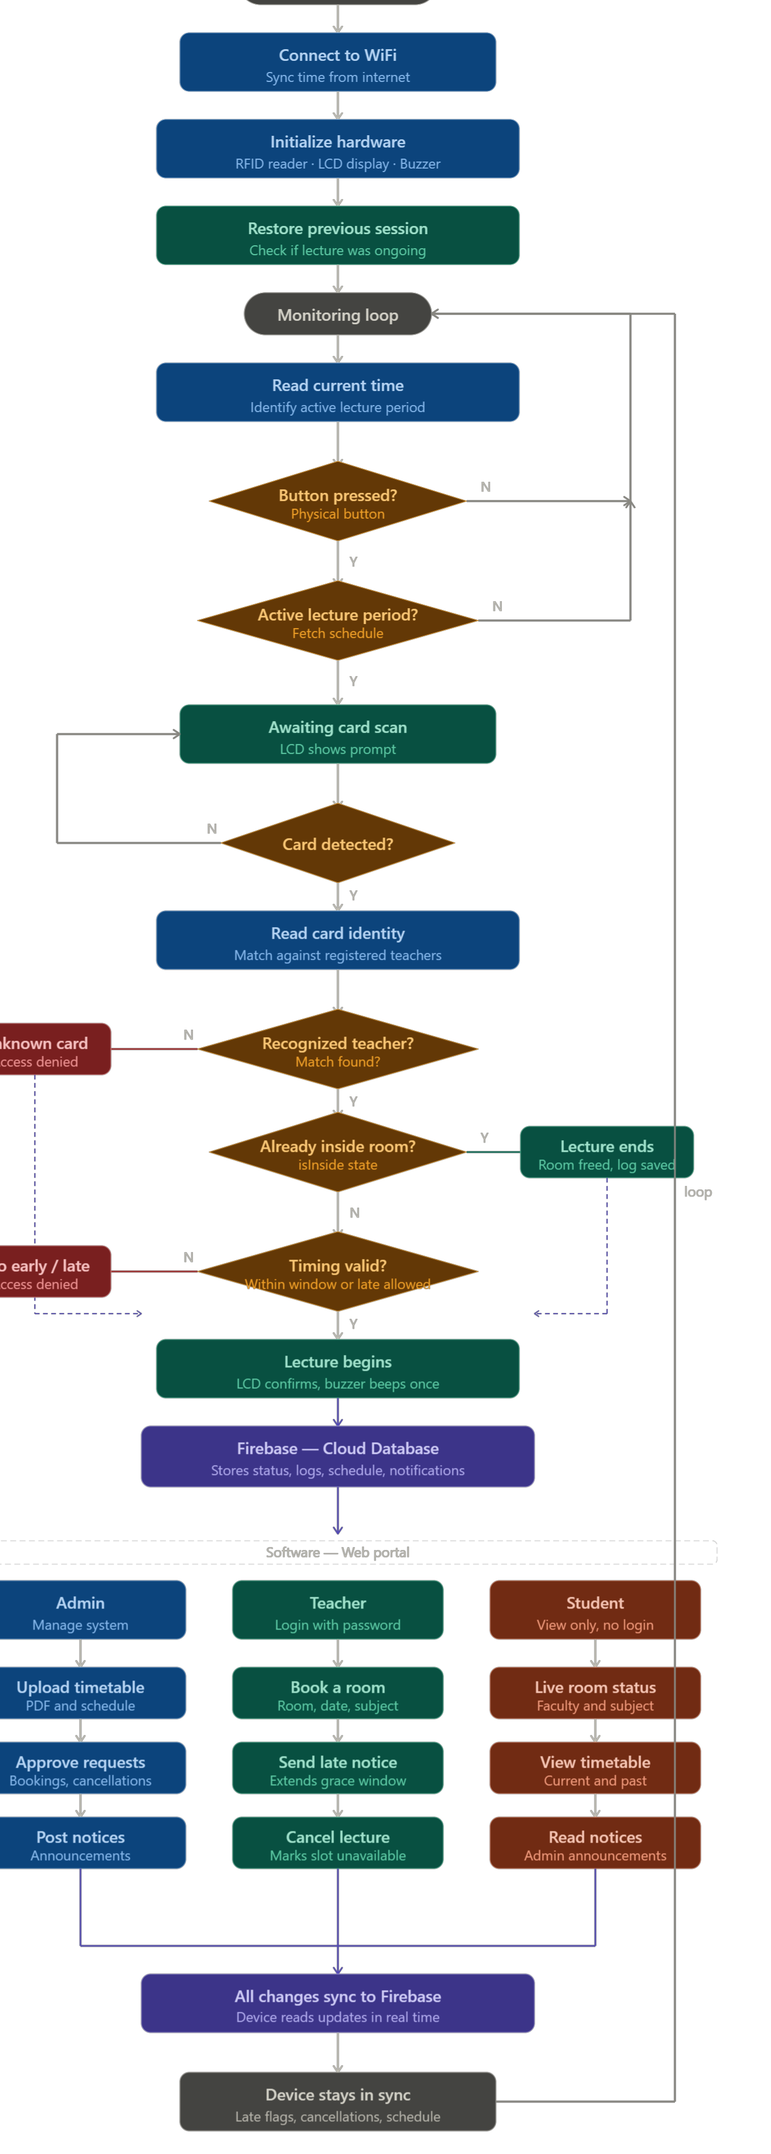
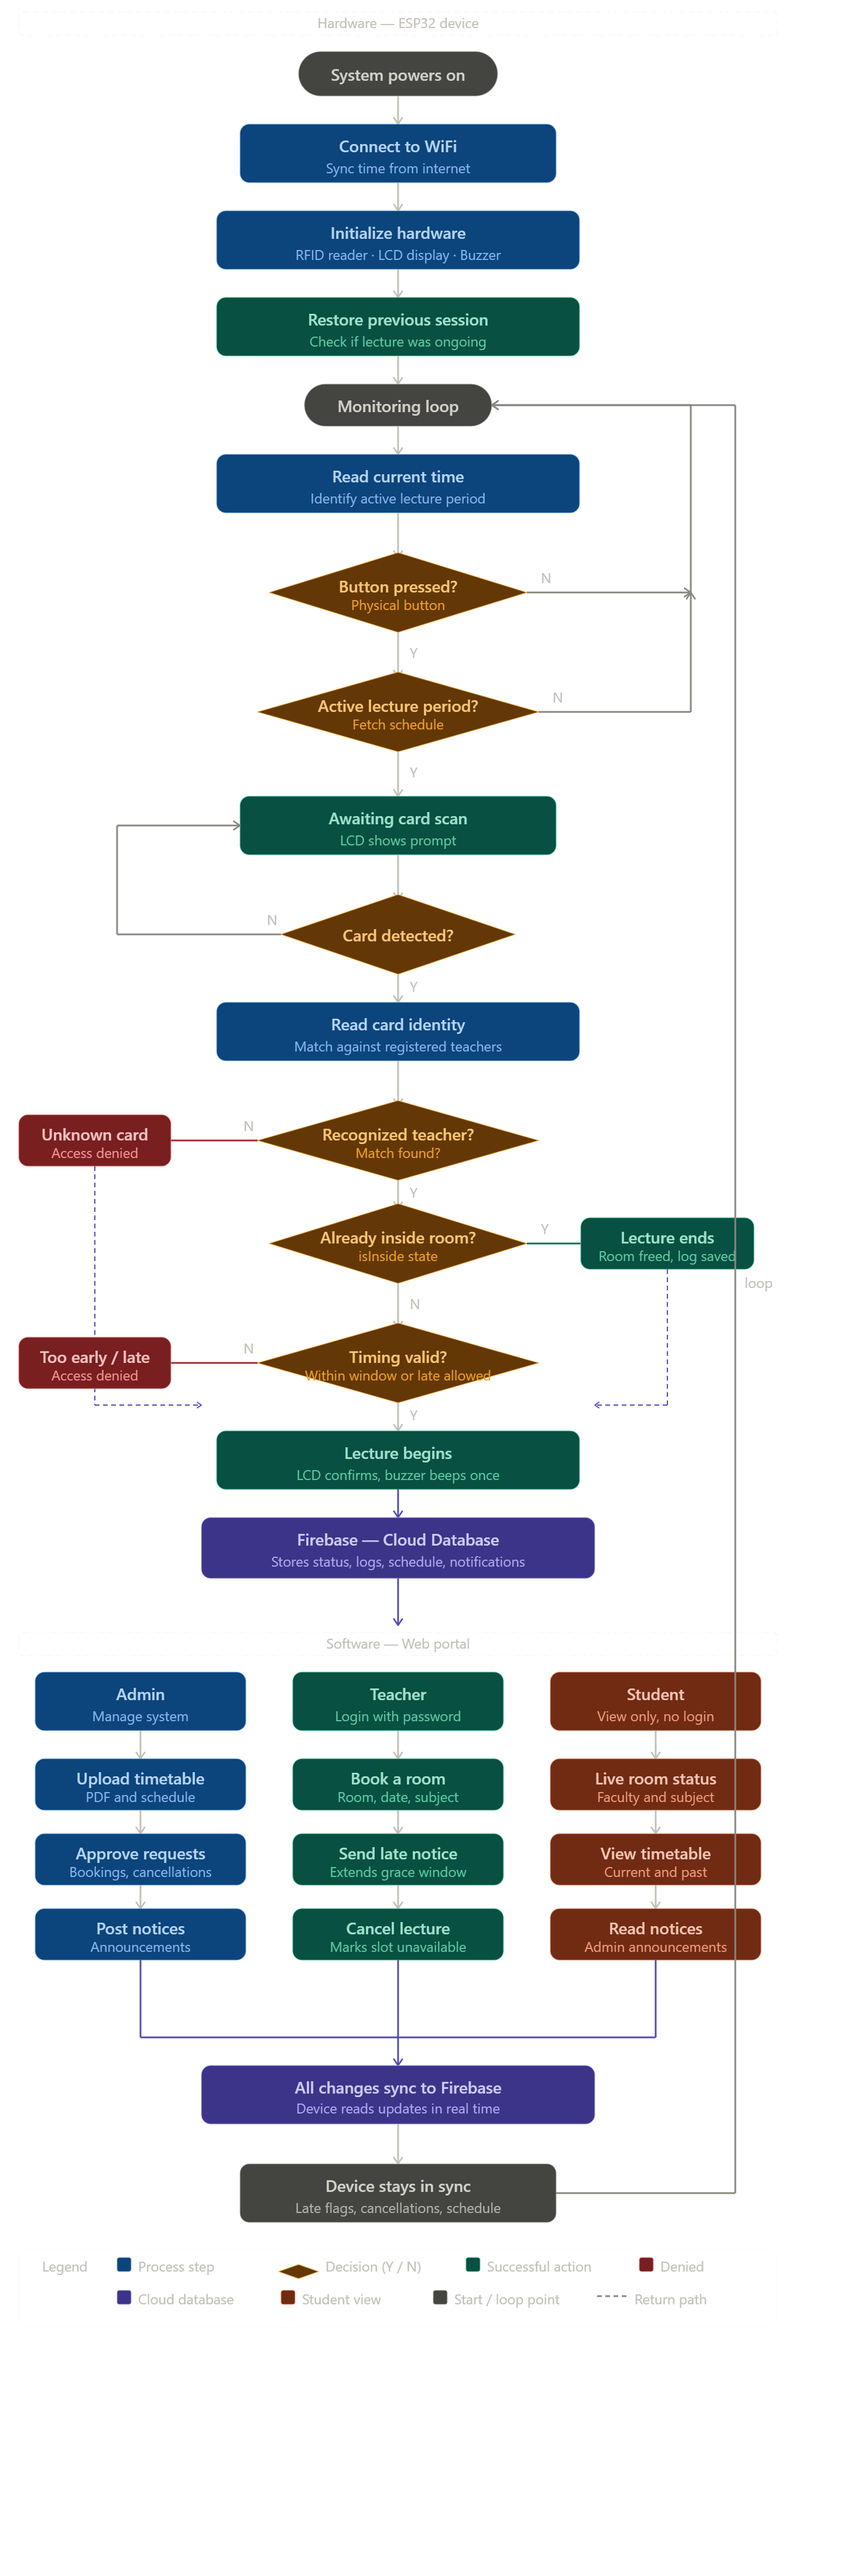
made some changes

diff --git a/admin.html b/admin.html
@@ -571,35 +571,113 @@ function renderLogs(snap,table) {
 }
 
 /* ═══════════════════════════════════════════════════
-   LIVE CLASSROOMS — with cancel/live sync
+   LIVE CLASSROOMS — status logic matches index.html
+   (checks timetable to distinguish Waiting vs Free)
 ════════════════════════════════════════════════════ */
+
+// ── Same slot-time helpers as index.html ──────────
+function getAdminCurrentSlot() {
+  const now=new Date(), h=now.getHours(), m=now.getMinutes(), mins=h*60+m;
+  if (mins>=510&&mins<570) return "s1";
+  if (mins>=570&&mins<630) return "s2";
+  if (mins>=640&&mins<700) return "s3";
+  if (mins>=700&&mins<760) return "s4";
+  if (mins>=760&&mins<800) return "lunch";
+  if (mins>=800&&mins<860) return "s5";
+  if (mins>=860&&mins<920) return "s6";
+  if (mins>=920&&mins<980) return "s7";
+  if (mins>=980&&mins<1040) return "s8";
+  return "none";
+}
+function getAdminIsRealSlot(slot) { return slot!=="lunch"&&slot!=="none"; }
+
 function loadDashboardStats() {
   get(ref(database,"classrooms")).then(classSnap => {
     if (!classSnap.exists()) return;
     const rooms=Object.keys(classSnap.val());
-    const statusMap={}, liveCardsDiv=document.getElementById("liveRoomCards");
+    const statusMap={}, subjectMap={}, facultyMap={};
+    const liveCardsDiv=document.getElementById("liveRoomCards");
 
     rooms.forEach(room => {
-      onValue(ref(database,"classrooms/"+room+"/live"), snap => {
-        statusMap[room]=snap.exists()?(snap.val().status||"Free"):"Free";
+      // Listen real-time on live node; recompute status with timetable context
+      onValue(ref(database,"classrooms/"+room+"/live"), async liveSnap => {
+        const slot      = getAdminCurrentSlot();
+        const isReal    = getAdminIsRealSlot(slot);
+        const todayDate = new Date().toISOString().split("T")[0];
+        const dayName   = new Date().toLocaleString("en-US",{weekday:"long"});
+
+        let status="Free", subject="–", faculty="–";
+
+        if (!isReal) {
+          status = "Break";
+        } else {
+          // Fetch timetable + cancel info for current slot
+          const [ttSnap, specSnap, cancelSnap] = await Promise.all([
+            get(ref(database,`classrooms/${room}/timetable/${dayName}/${slot}`)),
+            get(ref(database,`classrooms/${room}/specialBookings/${todayDate}/${slot}`)),
+            get(ref(database,`cancelled_lectures/${todayDate}/${room}/${slot}`))
+          ]);
+          const isCancelled = cancelSnap.exists();
+          const lecture = specSnap.exists() ? specSnap.val() : (ttSnap.exists() ? ttSnap.val() : null);
+
+          if (isCancelled) {
+            status = "Free";
+          } else if (liveSnap.exists()) {
+            const live = liveSnap.val();
+            let ts = live.timestamp||0;
+            if (ts < 10000000000) ts *= 1000;
+            const isValid = live.status==="Ongoing" && live.slot &&
+              live.slot.toLowerCase()===slot.toLowerCase() && (Date.now()-ts)<70*60*1000;
+            if (isValid) {
+              status  = "Ongoing";
+              subject = live.subject||"–";
+              faculty = live.faculty||"–";
+            } else {
+              status  = lecture ? "Waiting" : "Free";
+              subject = lecture ? (lecture.subject||"–") : "–";
+              faculty = lecture ? (lecture.faculty||"–") : "–";
+            }
+          } else if (lecture) {
+            status  = "Waiting";
+            subject = lecture.subject||"–";
+            faculty = lecture.faculty||"–";
+          }
+        }
+
+        statusMap[room]=status; subjectMap[room]=subject; facultyMap[room]=faculty;
+
+        // ── Recount stats ─────────────────────────────
         let total=rooms.length, free=0, ongoing=0, waiting=0;
         Object.values(statusMap).forEach(st => {
-          if (st==="Ongoing") ongoing++; else if (st==="Waiting") waiting++; else free++;
+          if (st==="Ongoing") ongoing++;
+          else if (st==="Waiting") waiting++;
+          else free++; // Free + Break both count as "free" for counter
         });
         document.getElementById("totalRooms").innerText=total;
         document.getElementById("freeRooms").innerText=free;
         document.getElementById("ongoingRooms").innerText=ongoing;
         document.getElementById("waitingRooms").innerText=waiting;
+
+        // ── Rebuild room cards ─────────────────────────
         liveCardsDiv.innerHTML="";
         rooms.forEach(r => {
           const st=statusMap[r]||"Free";
-          const c={Ongoing:{bg:"#FEE2E2",color:"#DC2626",dot:"#EF4444"},Waiting:{bg:"#FEF9C3",color:"#854D0E",dot:"#F59E0B"},Free:{bg:"#D1FAE5",color:"#065F46",dot:"#10B981"}}[st]||{bg:"#D1FAE5",color:"#065F46",dot:"#10B981"};
+          const sub=subjectMap[r]||"–";
+          const fac=facultyMap[r]||"–";
+          const c={
+            Ongoing:{bg:"#FEE2E2",color:"#DC2626",dot:"#EF4444"},
+            Waiting:{bg:"#FEF9C3",color:"#854D0E",dot:"#F59E0B"},
+            Break:  {bg:"#F1F5F9",color:"#475569",dot:"#94A3B8"},
+            Free:   {bg:"#D1FAE5",color:"#065F46",dot:"#10B981"}
+          }[st]||{bg:"#D1FAE5",color:"#065F46",dot:"#10B981"};
           liveCardsDiv.innerHTML+=`
-            <div class="live-room-card" onclick="filterRooms('${r}','room')">
+            <div class="live-room-card" onclick="filterRooms('${r}','room')" style="min-width:180px;">
               <div class="live-room-name">🏫 ${r}</div>
-              <div class="live-status-badge" style="background:${c.bg};color:${c.color};">
+              <div class="live-status-badge" style="background:${c.bg};color:${c.color};margin:6px 0;">
                 <div style="width:7px;height:7px;border-radius:50%;background:${c.dot};${st==='Ongoing'?'animation:pulse 1.2s infinite;':''}"></div>${st}
               </div>
+              <div style="font-size:11px;color:#64748b;margin-top:4px;white-space:nowrap;overflow:hidden;text-overflow:ellipsis;" title="${sub}">📚 ${sub}</div>
+              <div style="font-size:11px;color:#64748b;white-space:nowrap;overflow:hidden;text-overflow:ellipsis;" title="${fac}">👤 ${fac}</div>
             </div>`;
         });
       });
@@ -654,22 +732,38 @@ window.filterRooms=async function(typeOrRoom, mode="type") {
     return;
   }
 
-  // Filter by status type
+  // Filter by status type — uses same timetable-aware logic as index.html
   document.getElementById("popupTitle").innerText=typeOrRoom==="all"?"All Classrooms":`${typeOrRoom} Classrooms`;
   const classSnap=await get(ref(database,"classrooms"));
   if (!classSnap.exists()) { container.innerHTML="No rooms"; return; }
   const rooms=Object.keys(classSnap.val()); let html="";
+  const slot=getAdminCurrentSlot(), isReal=getAdminIsRealSlot(slot);
   for (const room of rooms) {
-    const [liveSnap,cancelSnap]=await Promise.all([
+    const [liveSnap,ttSnap,specSnap,cancelSnap]=await Promise.all([
       get(ref(database,`classrooms/${room}/live`)),
-      get(ref(database,`cancelled_lectures/${today}/${room}`))
+      get(ref(database,`classrooms/${room}/timetable/${day}/${slot}`)),
+      get(ref(database,`classrooms/${room}/specialBookings/${today}/${slot}`)),
+      get(ref(database,`cancelled_lectures/${today}/${room}/${slot}`))
     ]);
+    const lecture = specSnap.exists() ? specSnap.val() : (ttSnap.exists() ? ttSnap.val() : null);
+    const isCancelled = cancelSnap.exists();
     let status="Free", subject="–", faculty="–";
-    if (liveSnap.exists()) {
-      const lv=liveSnap.val(); status=lv.status||"Free"; subject=lv.subject||"No Lecture"; faculty=lv.faculty||"–";
+    if (!isReal) {
+      status="Break";
+    } else if (isCancelled) {
+      status="Free";
+    } else if (liveSnap.exists()) {
+      const lv=liveSnap.val(); let ts=lv.timestamp||0;
+      if (ts<10000000000) ts*=1000;
+      const isValid=lv.status==="Ongoing"&&lv.slot&&lv.slot.toLowerCase()===slot.toLowerCase()&&(Date.now()-ts)<70*60*1000;
+      if (isValid) { status="Ongoing"; subject=lv.subject||"–"; faculty=lv.faculty||"–"; }
+      else { status=lecture?"Waiting":"Free"; subject=lecture?lecture.subject||"–":"–"; faculty=lecture?lecture.faculty||"–":"–"; }
+    } else if (lecture) {
+      status="Waiting"; subject=lecture.subject||"–"; faculty=lecture.faculty||"–";
     }
     if (typeOrRoom!=="all"&&status!==typeOrRoom) continue;
-    const bg={Ongoing:"#FEE2E2",Waiting:"#FEF9C3",Free:"#D1FAE5"}[status]||"#D1FAE5";
+    const bgMap={Ongoing:"#FEE2E2",Waiting:"#FEF9C3",Break:"#F1F5F9",Free:"#D1FAE5"};
+    const bg=bgMap[status]||"#D1FAE5";
     html+=`<div style="padding:14px;margin:8px 0;border-radius:12px;background:${bg};text-align:left;font-size:13px;cursor:pointer;" onclick="filterRooms('${room}','room')">
       <strong>🏫 ${room}</strong><br>📚 ${subject}<br>👤 ${faculty}<br>📌 ${status}
     </div>`;
